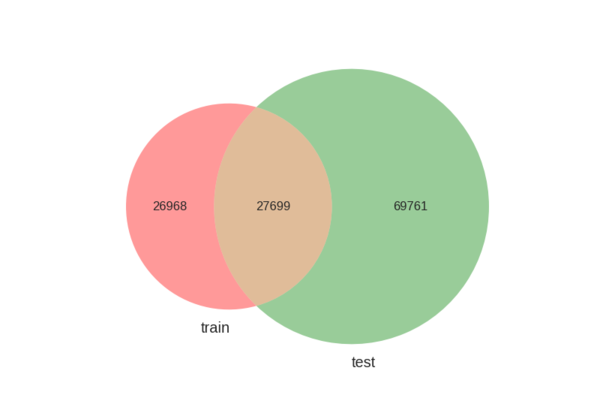
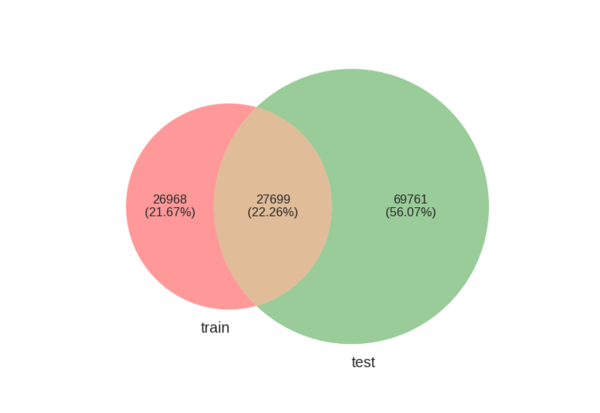
Revising the home depot post

Changed region(s): [[0.24, 0.4649, 0.33, 0.523], [0.63, 0.4649, 0.72, 0.523], [0.42, 0.4649, 0.51, 0.523]]

diff --git a/_drafts/2016-06-09-home-depot-produce-relevance-review.md b/_drafts/2016-06-09-home-depot-produce-relevance-review.md
@@ -12,18 +12,19 @@ icon: "homedepot.png"
 date: 2016-08-01
 ---
 
-The Home Depot Product Search Relevance Kaggle competition offered participants a chance to build a model, which predicts relevance of products that are returned in a response to the user query. This is a typical e-commerce search scenario, where the products returned in response to user's query are structured objects, represented by a collection of properties (e.g. brand, size, type, etc.), which brings certain specifics compared to classical document search. A common approach to e-commerce search is to use an out-of-the-box search engine (e.g. [Apache Solr](http://lucene.apache.org/solr/){:target="_blank"} or [Elastic Search](https://www.elastic.co/){:target="_blank"}) to retrieve a set of candidate products using keywords mentioned in different properties, and then apply a post-processing machine learning model to rerank the products. The goal of the Home Depot competition was exactly to build such a post-processing model to predict relevance of products to given queries.
+One of the most improtant features of e-commerce platforms is product search, which displays a list of products in a response to a user search query. The products are typically represented as a collection of properties (e.g. brand, type, size, color, etc.). A typical approach to e-commerce search is to use an out-of-the-box search engine (e.g. [Apache Solr](http://lucene.apache.org/solr/){:target="_blank"} or [Elastic Search](https://www.elastic.co/){:target="_blank"}) to retrieve a set of candidate products by matching user queries against properties text, and then apply a post-processing model to rerank the products. The Home Depot Product Search Relevance Kaggle competition challenged participants to build such a model, which can predict the relevance of products returned in a response to a user query. 
+
 
 ## Data
 
-For the challenge [Home Depot provided a dataset](https://www.kaggle.com/c/home-depot-product-search-relevance/data){:target="_blank"}, that contains pairs of user search queries and products, that might be relevant to these queries. Each such pair was examined by at least three human raters, who assigned integer scores from 1 (not relevant) to 3 (highly relevant). The scores from different raters were averaged. Organizers made available [instructions](https://www.kaggle.com/c/home-depot-product-search-relevance/download/relevance_instructions.docx){:target="_blank"} for human raters who judged the relevance of products to the queries.
+For the challenge [Home Depot provided a dataset](https://www.kaggle.com/c/home-depot-product-search-relevance/data){:target="_blank"}, that contains pairs of user search queries and products, that might be relevant to these queries. Each such pair was examined by at least three human raters, who assigned integer scores from 1 (not relevant) to 3 (highly relevant). The scores from different raters were averaged. Organizers made available [instructions](https://www.kaggle.com/c/home-depot-product-search-relevance/download/relevance_instructions.docx){:target="_blank"} for human raters who judged the relevance of products to the queries, so participants can learn about the exact process used to obtain the ground truth labels.
 
 While the user queries are simply strings, that contain one or more terms, products are more complex. Each product has a product id, title (e.g. "Delta Vero 1-Handle Shower Only Faucet Trim Kit in Chrome (Valve Not Included)"), a more verbose description (e.g. "Update your bathroom with the Delta Vero Single-Handle Shower Faucet Trim Kit in Chrome ...") and one or more attributes, which could be brand name, weight, color, etc. While some attributes have a clear name (e.g. "MFG Brand Name"), others are simply bullet points, that you might expect to see under the product description on a website (e.g. "Bullet01" -> "Versatile connector for various 90° connections and home repair projects").
 
 
 ## Evaluation
 
-The goal of the challenge is to predict the relevance score for (product, search query) pairs from the test set. The main quality metric for the submissions was root mean squared error (RMSE): $$\textrm{RMSE} = \sqrt{\frac{1}{N} \sum_{i=1}^{N} (rel_i - \hat{rel}_i)^2}$$, where $$rel_i$$ is the average human relevance score, and $$\hat{rel}_i$$ is the model prediction.
+The goal of the challenge is to build a model to predict relevance scores for (product, search query) pairs from the test set. The quality of the model was evaluated using root mean squared error (RMSE): $$\textrm{RMSE} = \sqrt{\frac{1}{N} \sum_{i=1}^{N} (rel_i - \hat{rel}_i)^2}$$, where $$rel_i$$ is the average human relevance score, and $$\hat{rel}_i$$ is the model prediction.
 
 
 ## Data Exploration
@@ -69,7 +70,7 @@ plt.show()
 
 ![Venn diagram of queries in train and test sets]({{ site.url }}/images/home_depot/queries_venn.png)
 
-The percentages of queries and products that appear in train only and in test only are quite important. It's natural to expect that predictions for new products and queries might be harder to make, than for queries and products which the model has seen during training. Therefore, a good training-validation splits (or cross-validation splits) would maintain the ratio of repeated and new queries and products. Otherwise, the parameters tuned on the validation set can be far from optimal, and we will get a lower leaderboard score.
+These percentages are actually quite important. It's natural to expect that predictions for new products and queries might be harder to make, than for queries and products which the model has seen during training. Therefore, a good training-validation splits (or cross-validation splits) would maintain the ratio of repeated and new queries and products. Otherwise, the parameters tuned on the validation set can be far from optimal, and we will get a lower leaderboard score.
 
 {% highlight python %}
 # Split products into buckets based on their product_uid
@@ -122,7 +123,7 @@ def fix_units(s, replacements = {"'|in|inches|inch": "in",
     return s
 {% endhighlight %}
 
-* As we all know, words have different forms: singular and plural, verb forms and tenses, etc. All these variations can cause us troubles with word comparisons. A common strategy to deal with these situations is to [stem](https://en.wikipedia.org/wiki/Stemming){:target="_blank"} words, i.e. reduce word forms to their roots. There are multiple algorithms to do it, implemented in different languages. In Python one can use the [nltk](http://www.nltk.org/){:target="_blank"} library:
+* As we all know, words have different forms: singular and plural, verb forms and tenses, etc. All these variations can cause us troubles with word comparisons. A common strategy to deal with these situations is to [stem](https://en.wikipedia.org/wiki/Stemming){:target="_blank"} words, i.e. reduce word forms to their roots. We can replace the original product descriptions and queries with stemmed versions, which should make any word comparisons more robust. There are multiple algorithms to do it, implemented in different languages. In Python one can use the [nltk](http://www.nltk.org/){:target="_blank"} library:
 {% highlight python %}
 from nltk.stem.porter import *
 from nltk.tokenize import word_tokenize
